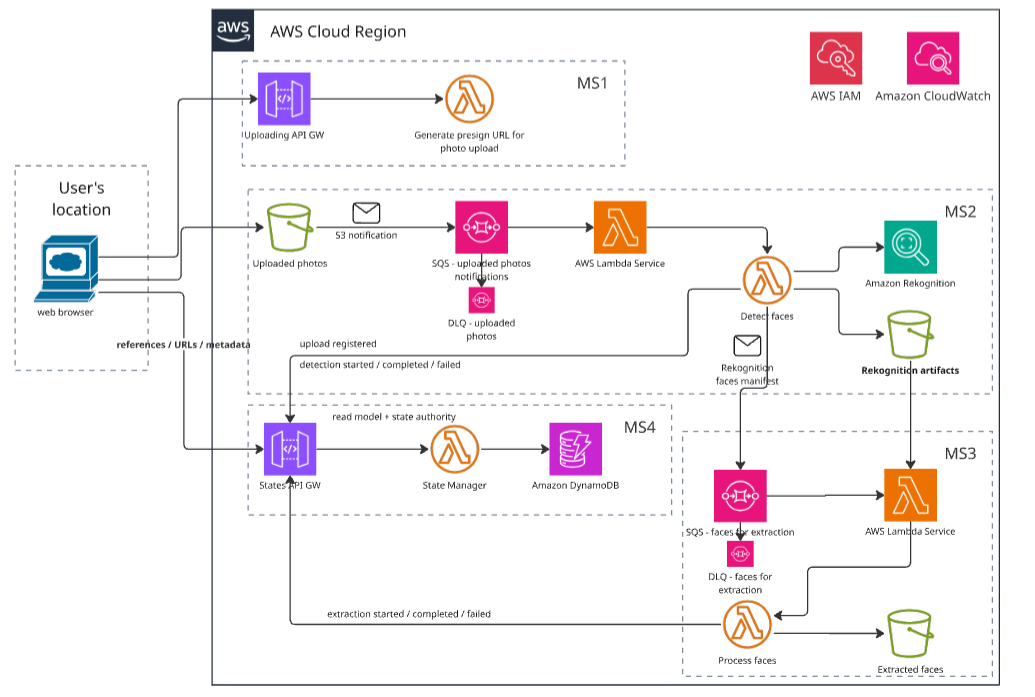
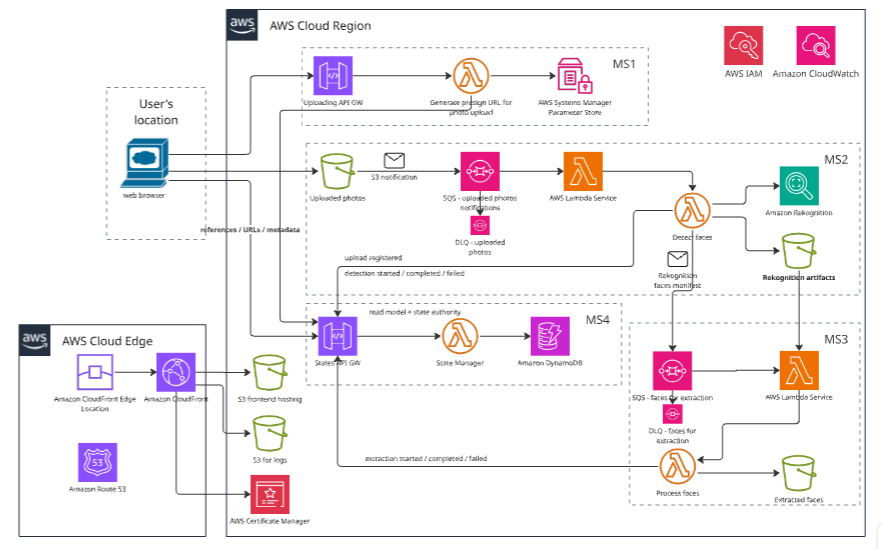
[close] Extend architecture diagram and close T-013
- Update architecture diagram image with additional key resources/flows while keeping readability-focused simplification.

- Add diagram guidance notes in README and ARCHITECTURE docs to direct detailed ownership/contract semantics to ARCHITECTURE.md.

- Close T-013 by marking the task as done and removing it from active backlog.

- T-013

Changed region(s): [[0.0, 0.0, 1.0, 0.9909], [0.0612, 0.8051, 0.1531, 0.898]]

diff --git a/docs/system-checklist.md b/docs/system-checklist.md
@@ -32,4 +32,3 @@ Last Issued ID: `T-015`
 | [T-008](tasks/T-008-scaffold-b-ms4-statemgr-with-sam.md) | todo | Backend | Scaffold `b-ms4-statemgr` with AWS SAM baseline template and module structure. | `b-ms4-statemgr/README.md`, `tasks/T-008-scaffold-b-ms4-statemgr-with-sam.md` | Planned; scaffold only, state API logic implemented later |
 | [T-010](tasks/T-010-define-frontend-backend-exchange-contracts.md) | todo | Contracts | Define business-level frontend/backend communication patterns and exchange contracts via `MS1` and `MS4`. | `README.md`, `b-ms1-ingress/README.md`, `b-ms4-statemgr/README.md`, `tasks/T-010-define-frontend-backend-exchange-contracts.md` | Planned; focus on business exchange patterns, not implementation detail |
 | [T-011](tasks/T-011-clarify-architecture-decisions-and-rationale.md) | in_progress | Architecture | Clarify architecture decisions and rationale across system documentation. | `README.md`, `ARCHITECTURE.md`, `docs/README.md`, `b-infra/README.md`, `b-ms1-ingress/README.md`, `b-ms2-detection/README.md`, `b-ms3-faces/README.md`, `b-ms4-statemgr/README.md`, `f-spa/README.md`, `tasks/T-011-clarify-architecture-decisions-and-rationale.md` | In progress; explain key decisions, boundaries, tradeoffs, and documentation placement rationale |
-| [T-013](tasks/T-013-extend-architecture-diagram-with-important-resources.md) | in_progress | Docs | Extend existing architecture diagram to include additional important resources and flows not currently shown clearly. | `img/ita-arch-diag1.png`, `README.md`, `ARCHITECTURE.md`, `tasks/T-013-extend-architecture-diagram-with-important-resources.md` | In progress; prefer extending current diagram for completeness over creating a separate one |

diff --git a/docs/tasks/T-013-extend-architecture-diagram-with-important-resources.md b/docs/tasks/T-013-extend-architecture-diagram-with-important-resources.md
@@ -2,7 +2,7 @@
 
 ## Metadata
 
-- Status: `todo`
+- Status: `done`
 - Created: `2026-03-09`
 - Last Updated: `2026-03-09`
 - Related Backlog Item: `T-013`
@@ -39,9 +39,9 @@ Out of scope:
 ## Acceptance Criteria
 
 - [x] `T-013` added to active backlog with correct `T-###` ID sequencing.
-- [ ] Diagram update plan is defined from existing architecture docs/ADs.
-- [ ] Existing diagram is extended (preferred) or a clearly justified alternate produced.
-- [ ] Updated diagram remains consistent with README and `ARCHITECTURE.md` decisions.
+- [x] Diagram update plan is defined from existing architecture docs/ADs.
+- [x] Existing diagram is extended (preferred) or a clearly justified alternate produced.
+- [x] Updated diagram remains consistent with README and `ARCHITECTURE.md` decisions.
 
 ## Implementation Notes
 
@@ -73,3 +73,5 @@ Out of scope:
 ## Change Log
 
 - `2026-03-09` - Initial task file created.
+- `2026-03-09` - Synced status metadata to `in_progress` to match active backlog state.
+- `2026-03-09` - Marked task done after diagram update verification and explicit close instruction.

diff --git a/README.md b/README.md
@@ -29,6 +29,7 @@ Students use a mobile-first SPA to capture/upload images, backend services proce
 ![4-ita architecture](img/ita-arch-diag1.png)
 
 Source image: `img/ita-arch-diag1.png`.
+For decision rationale, resource ownership semantics, and tradeoffs not fully shown visually, see [`ARCHITECTURE.md`](ARCHITECTURE.md).
 
 ## Working Map (Read This First)
 

diff --git a/ARCHITECTURE.md b/ARCHITECTURE.md
@@ -8,6 +8,7 @@ It complements the root [`README.md`](README.md), which remains the architecture
 ![4-ita architecture](img/ita-arch-diag1.png)
 
 Source image: `img/ita-arch-diag1.png`.
+The diagram is intentionally simplified; canonical ownership, contract boundaries, and implementation semantics are defined by the AD entries below.
 
 ## Role of This File
 
